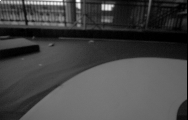
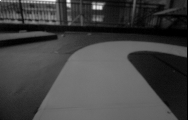
workflow

diff --git a/main.c b/main.c
@@ -161,6 +161,66 @@ void set_image_twovalues(uint8_t value) {
     }
 }
 
+// 自适应阈值函数，替代原来的Otsu函数
+// 使用局部区域平均值作为阈值，并添加一个常数C作为偏移
+uint8_t AdaptiveThreshold(uint8_t index[MAX_IMAGE_HEIGHT][MAX_IMAGE_WIDTH]) {
+    // 创建一个临时的二值化图像
+    uint8_t temp_image[MAX_IMAGE_HEIGHT][MAX_IMAGE_WIDTH];
+
+    // 定义局部窗口大小，可根据需要调整
+    const int window_size = 30;
+    const int offset = 5; // 偏移值，可调整
+    const int half_window = window_size / 2;
+
+    for (int i = 0; i < MT9V03X_H; i++) {
+        for (int j = 0; j < MT9V03X_W; j++) {
+            int sum = 0;
+            int count = 0;
+
+            // 计算局部窗口内的平均值
+            for (int wi = -half_window; wi <= half_window; wi++) {
+                for (int wj = -half_window; wj <= half_window; wj++) {
+                    int ni = i + wi;
+                    int nj = j + wj;
+
+                    // 确保在图像范围内
+                    if (ni >= 0 && ni < MT9V03X_H && nj >= 0 && nj < MT9V03X_W) {
+                        sum += index[ni][nj];
+                        count++;
+                    }
+                }
+            }
+
+            // 使用局部平均值减去偏移量作为阈值
+            int local_threshold = sum / count - offset;
+
+            // 二值化
+            if (index[i][j] < local_threshold) {
+                temp_image[i][j] = 0;
+            } else {
+                temp_image[i][j] = 255;
+            }
+        }
+    }
+
+    // 将结果复制到原始图像
+    for (int i = 0; i < MT9V03X_H; i++) {
+        for (int j = 0; j < MT9V03X_W; j++) {
+            image[i][j] = temp_image[i][j];
+        }
+    }
+
+    // 返回一个固定值，因为我们不再需要全局阈值
+    return 128;
+}
+
+// 修改后的图像二值化处理函数，直接使用自适应阈值
+void set_image_adaptive_twovalues() {
+    // 直接调用自适应阈值函数来处理图像
+    img_threshold = AdaptiveThreshold(base_image);
+    // 这里不需要再做二值化，因为AdaptiveThreshold已经完成了二值化
+}
+
 // 寻找基准点
 void find_jidian(uint8_t index[MAX_IMAGE_HEIGHT][MAX_IMAGE_WIDTH]) {
     int mid_w = MT9V03X_W / 2;
@@ -632,12 +692,16 @@ int main(int argc, char *argv[]) {
     save_stage_image(output_prefix, "1_original", base_image, 0);
 
     // 图像处理流程
-    printf("计算Otsu阈值...\n");
-    img_threshold = Ostu(base_image);
-    printf("Otsu阈值: %d\n", img_threshold);
+//    printf("计算Otsu阈值...\n");
+//    img_threshold = Ostu(base_image);
+//    printf("Otsu阈值: %d\n", img_threshold);
+//
+//    printf("二值化图像...\n");
+//    set_image_twovalues(img_threshold);
 
-    printf("二值化图像...\n");
-    set_image_twovalues(img_threshold);
+    printf("应用自适应阈值...\n");
+    set_image_adaptive_twovalues();
+    printf("自适应阈值处理完成\n");
     // 保存二值化图像
     save_stage_image(output_prefix, "2_binary", image, 1);
 
